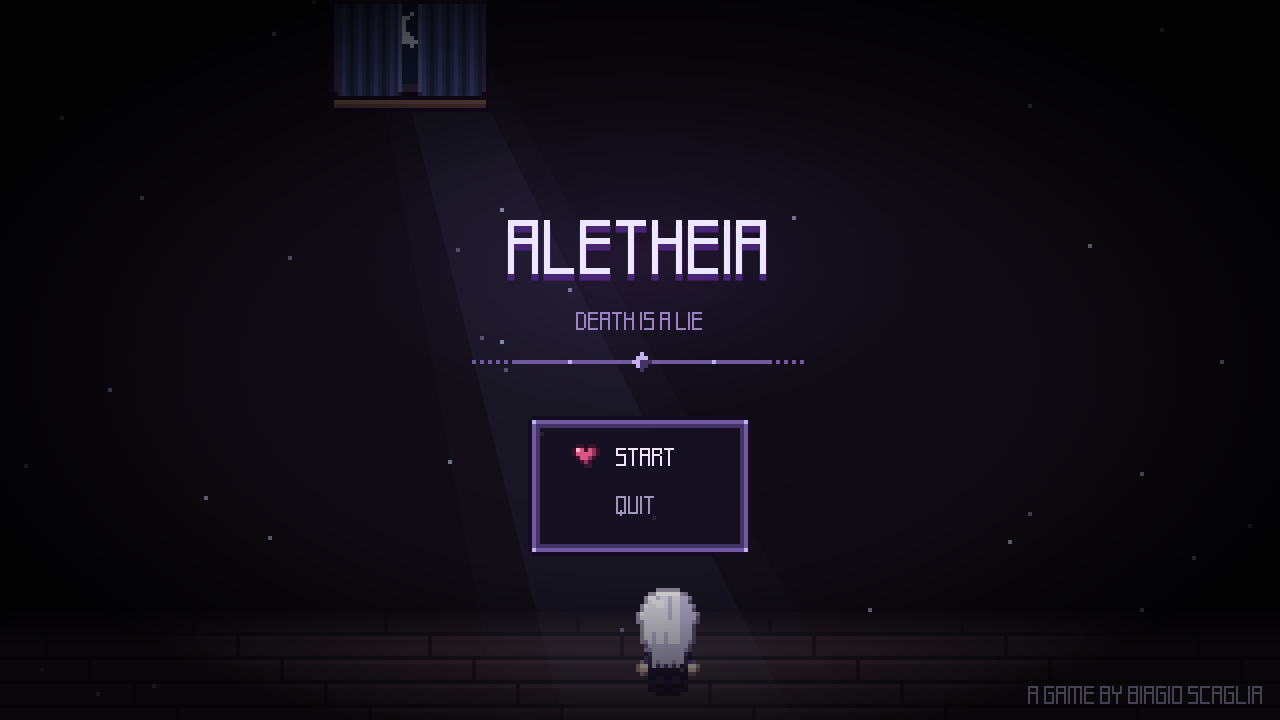
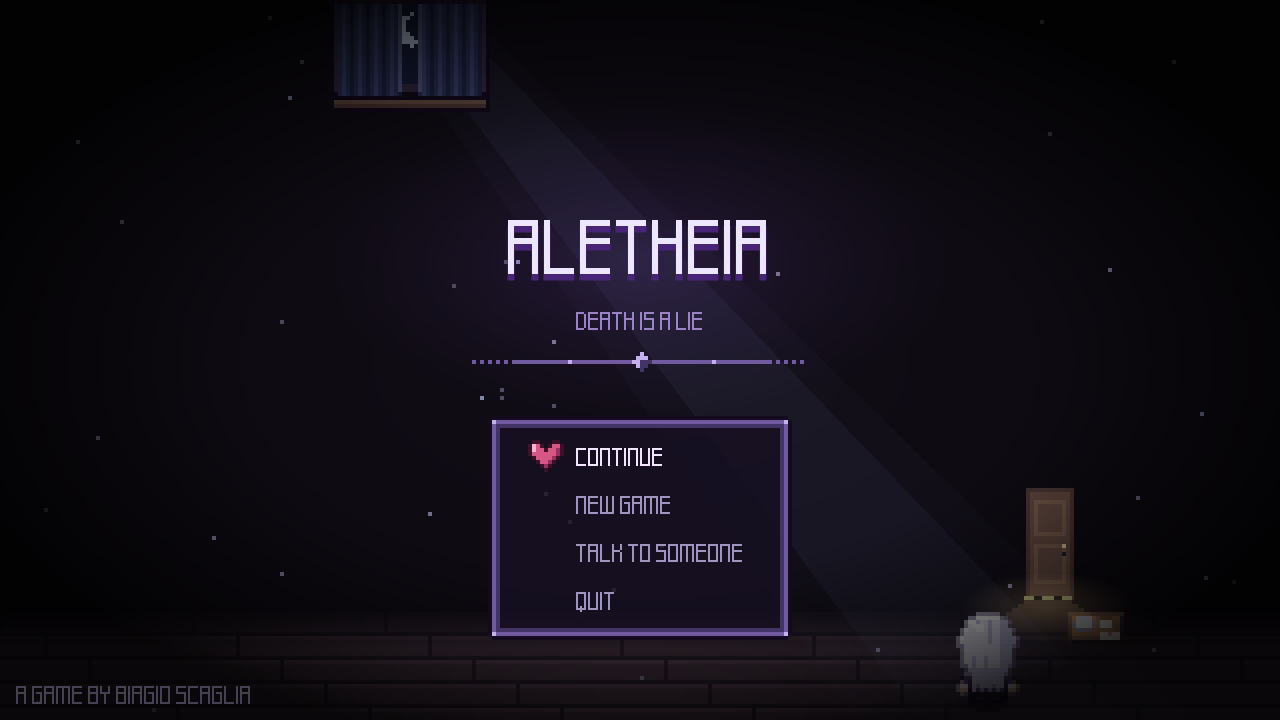
Documentazione: il titolo nuovo e l'inizio a mani vuote

Changed region(s): [[0.375, 0.5806, 0.625, 0.9472], [0.75, 0.6722, 1.0, 0.9778], [0.0, 0.9472, 0.2188, 0.9778]]

diff --git a/stanza/README.md b/stanza/README.md
@@ -16,8 +16,8 @@ I tasti non sono scritti a schermo: il gioco li spiegherà man mano, quando serv
 | --- | --- |
 | WASD / frecce | cammina |
 | Shift | corri |
-| Spazio / J | magia (carica sulle mani, poi il proiettile parte verso dove guarda) |
-| K | spada di vetro (fende verso dove guarda) |
+| Spazio / J | magia (carica sulle mani, poi il proiettile parte verso dove guarda); solo quando Lethe sa un incantesimo |
+| K | spada di vetro (fende verso dove guarda); solo quando Lethe ha la spada in mano |
 | Tab | solo in debug: cambia lo stadio della spada |
 | Esc / X | menu di pausa (Esc, X o tasto destro: indietro) |
 | E / Z / Invio | parla con la cosa davanti (sopra la testa di Lethe compare un fumetto col cuore); nei dialoghi: avanti |
@@ -38,8 +38,14 @@ $GODOT --path . -s res://tools/capture_frames.gd -- <cartella> - res://title/tit
 ```
 studio_intro/                    l'intro dello studio (copiata da ../intro-studio, sottotitolo "presents")
 title/
-├── title_screen.gd / .tscn      il titolo: appare dal nero, menu Start / Quit, poi la stanza
+├── title_screen.gd / .tscn      il titolo: Lethe davanti alla porta chiusa, la luna da una parte e la
+│                                luce calda sotto la porta dall'altra. Appare dal nero, poi il menu
+│                                Continue (se c'è un salvataggio) / New Game / Talk to Someone / Quit
 │                                (Quit: lo schermo si rompe come in un incubo, poi si chiude)
+├── title_door.gd                la porta: luce sotto, vassoio davanti; ogni tanto bussano e sotto
+│                                compaiono i piedi
+├── care_note.gd                 le pagine calme: l'avviso sui contenuti (la prima volta) e
+│                                "Talk to Someone" coi numeri d'aiuto
 ├── title_backdrop.gd            raggio di luna (con le nuvole che passano) e pulviscolo
 ├── title_figure.gd              Lethe di spalle nel raggio (solo se ci sono i suoi sprite)
 ├── title_name.gd                il titolo col nome nascosto: ogni tanto di A-LETHE-IA resta solo LETHE
@@ -129,6 +135,7 @@ core/
 ├── glow.gd                      luci morbide (PointLight2D a gradiente radiale)
 ├── music.gd                     musica in loop
 ├── sfx.gd                       suoni usa-e-getta (si liberano da soli, suonano anche in pausa)
+├── settings_store.gd            le cose da ricordare che non sono un salvataggio (l'avviso già letto)
 └── input_setup.gd               crea le azioni di input se mancano
 tests/                           un file per modulo + mini runner headless
 ```
@@ -155,6 +162,10 @@ tests/                           un file per modulo + mini runner headless
 - **Spada di vetro**: fatta del vetro dello specchio coperto (vedi il vault, "La spada di vetro"):
   ogni bugia ne stacca una scheggia, e la lama cresce in tre stadi. Lethe usa la posa d'attacco con
   la scia del braccio in vetro azzurro (la magia viola è la verità, la spada no).
+- **All'inizio a mani vuote**: Lethe non sa incantesimi e non ha la spada (arrivano nella
+  foresta, vedi il vault, "Trama - bozza"): nella stanza Spazio / J e K non fanno niente, e nel
+  menu incantesimi ed equipaggiamento non ancora trovati sono "???". Addosso ha solo il vestito.
+  Lo stato della partita sa cosa ha imparato e trovato (`learn`, `give`) e lo salva.
 - **Menu di pausa**: come in RPG Maker, con il cuore del titolo come cursore. Oggetti, incantesimi
   (quale parte con Spazio / J), equipaggiamento con l'anteprima dei parametri, stato, salvataggi.
   In fondo una barra d'aiuto dice cosa fa quello che si guarda e quali tasti usare. Per ora
